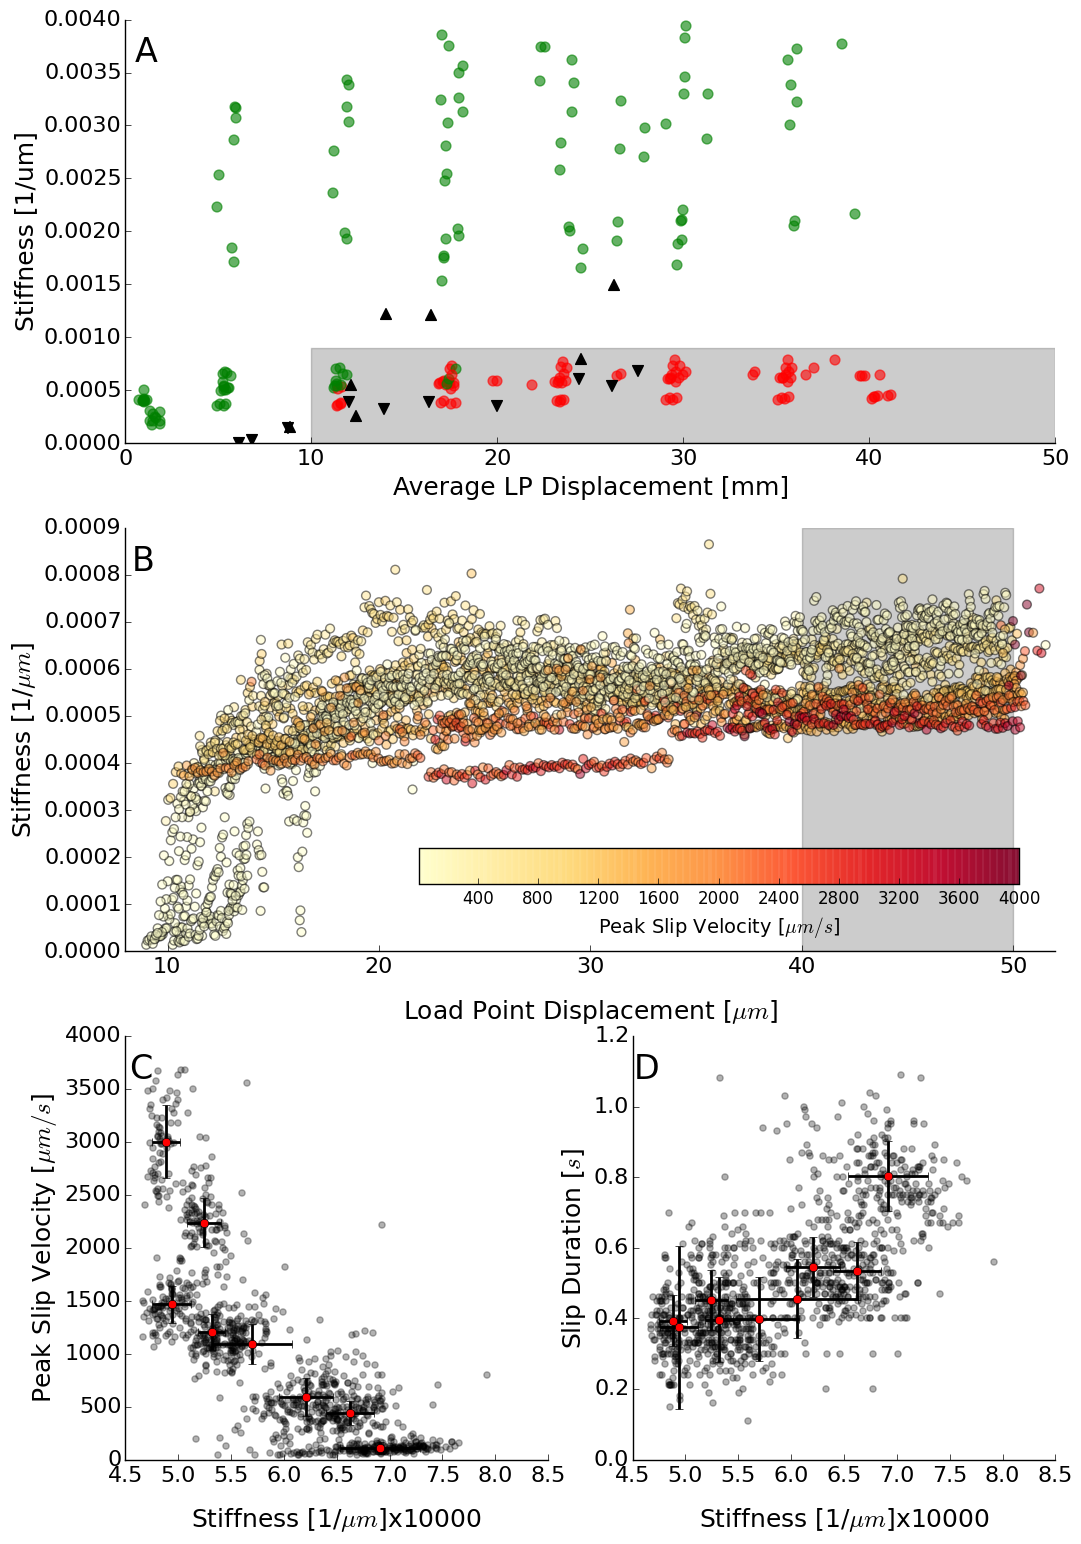
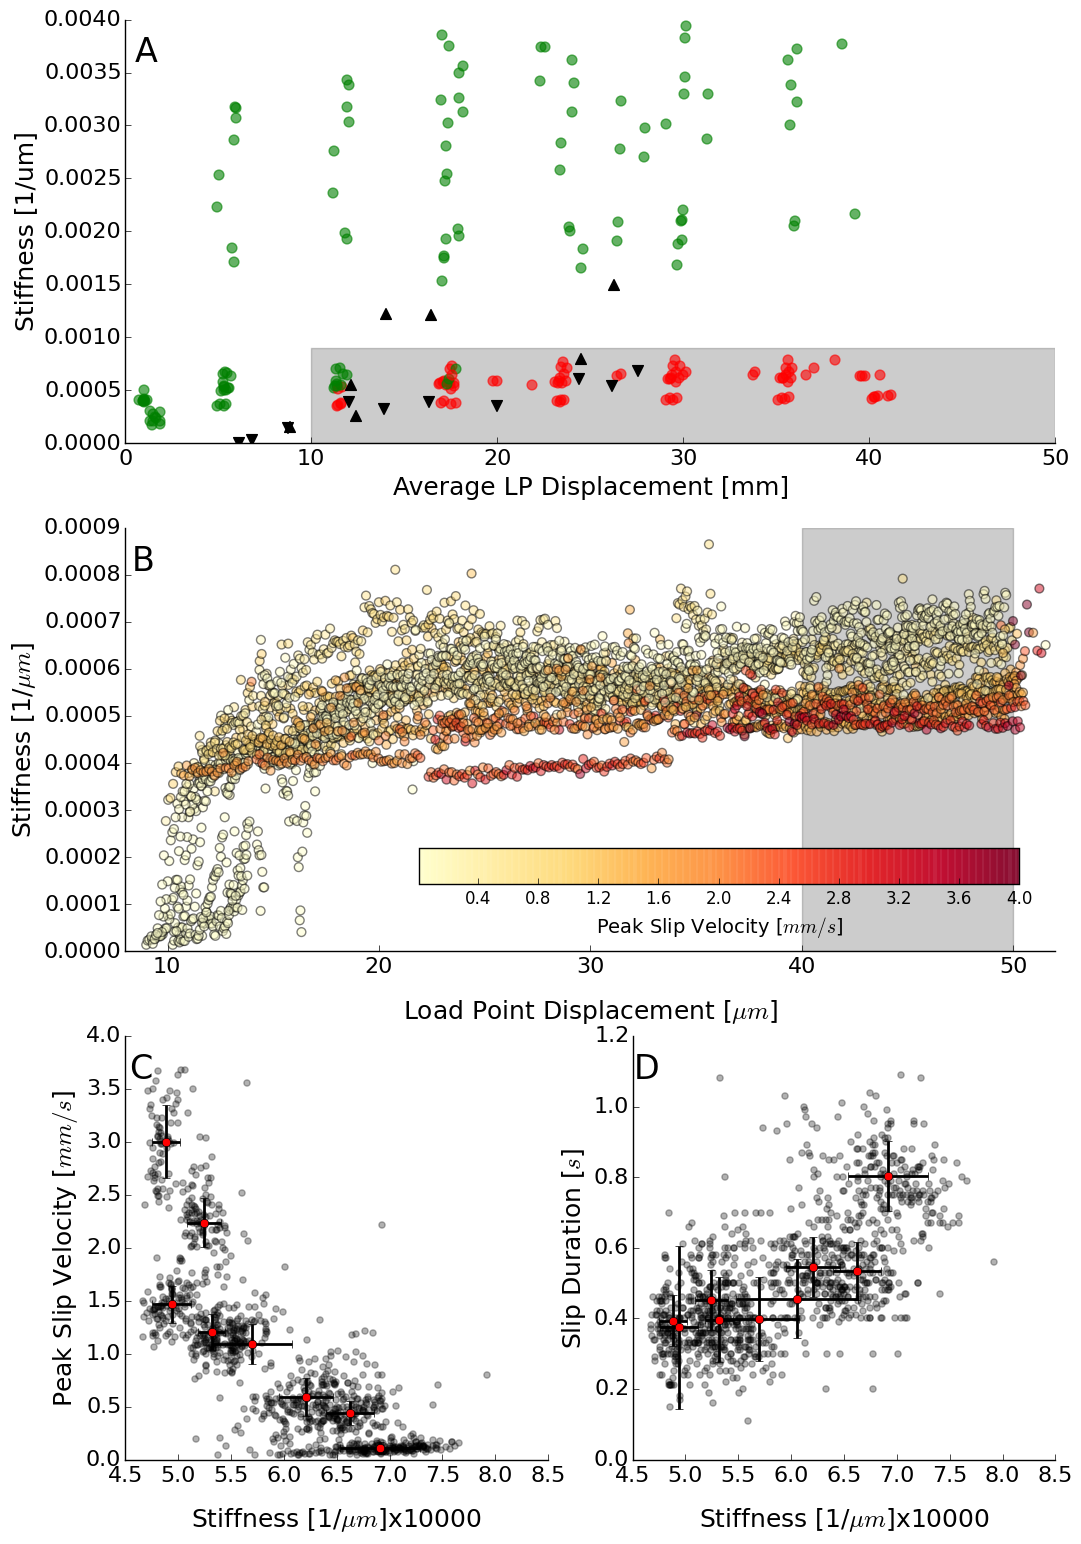
Change units to mm/s

diff --git a/Figures/Fig_Slip_Properties/make_final_plot.py b/Figures/Fig_Slip_Properties/make_final_plot.py
@@ -159,7 +159,7 @@ ax1.set_ylabel(r'Stiffness [1/$\mu m$]',fontsize=18)
 ax1.tick_params(axis='both', which='major', labelsize=16)
 
 ax2.set_xlabel(r'Stiffness [1/$\mu m$]x10000',fontsize=18,labelpad=15)
-ax2.set_ylabel(r'Peak Slip Velocity [$\mu m/s$]',fontsize=18)
+ax2.set_ylabel(r'Peak Slip Velocity [$mm/s$]',fontsize=18)
 ax2.tick_params(axis='both', which='major', labelsize=16)
 
 ax3.set_xlabel(r'Stiffness [1/$\mu m$]x10000',fontsize=18,labelpad=15)
@@ -193,8 +193,8 @@ ax3.spines["right"].set_visible(False)
 # Make panel A of displacement/stiffness
 ax1.text(0.01,0.9,'B',transform = ax1.transAxes,fontsize=24)
 
-low_color = 10.
-high_color = 4000.
+low_color = 10./1000.
+high_color = 4000./1000.
 color_map = plt.get_cmap('YlOrRd')
 marker_size = 40
 marker_alpha=0.5
@@ -202,7 +202,7 @@ color_col=11
 
 for key in experiment_event_data:
     event_data = experiment_event_data[key]
-    sc = ax1.scatter(event_data[:,9]/1000.,event_data[:,5],c=event_data[:,color_col],s=marker_size,alpha=marker_alpha,vmin=low_color,vmax=high_color,cmap=color_map)
+    sc = ax1.scatter(event_data[:,9]/1000.,event_data[:,5],c=event_data[:,color_col]/1000.,s=marker_size,alpha=marker_alpha,vmin=low_color,vmax=high_color,cmap=color_map)
     print key,np.min(event_data[:,color_col]), np.max(event_data[:,color_col])
 # cbar_ax = fig.add_axes([0.85, 0.15, 0.05, 0.7])
 # plt.colorbar(sc,cax=cbar_ax)
@@ -214,7 +214,7 @@ for key in experiment_event_data:
 position=fig.add_axes([0.37,0.42,0.5,0.02])  ## the parameters are the specified position you set [left, bottom, width, height]
 cb = fig.colorbar(sc,cax=position,orientation='horizontal')
 cb.solids.set_edgecolor("face")
-cb.set_label(r'Peak Slip Velocity [$\mu m/s$]',fontsize=14)
+cb.set_label(r'Peak Slip Velocity [$mm/s$]',fontsize=14)
 
 ax1.set_ylim(0,0.0009)
 ax1.set_xlim(8,52)
@@ -233,10 +233,10 @@ for key in experiment_event_data:
     event_data = experiment_event_data[key]
     event_data = filter(event_data,filter_col,low_val,high_val)
 
-    ax2.scatter(event_data[:,5]*10000,event_data[:,y_col],color='k',alpha=marker_alpha)
-    ax2.errorbar(np.mean(event_data[:,5]*10000),np.mean(event_data[:,y_col]),fmt='ro',ecolor='k',elinewidth=2,xerr=np.std(event_data[:,5]*10000),yerr=np.std(event_data[:,y_col]))
+    ax2.scatter(event_data[:,5]*10000,event_data[:,y_col]/1000.,color='k',alpha=marker_alpha)
+    ax2.errorbar(np.mean(event_data[:,5]*10000),np.mean(event_data[:,y_col]/1000.),fmt='ro',ecolor='k',elinewidth=2,xerr=np.std(event_data[:,5]*10000),yerr=np.std(event_data[:,y_col]/1000.))
 
-ax2.set_ylim(0,4000)
+ax2.set_ylim(0,4)
 ax2.set_xlim(4.5,8.5)
 
 # Panel C
